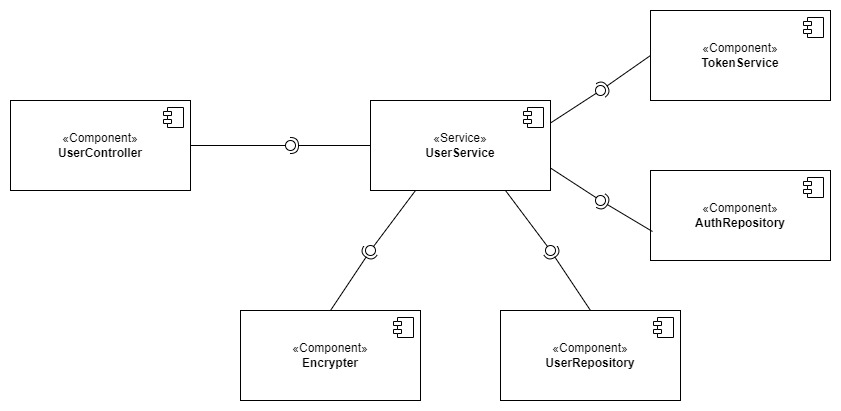
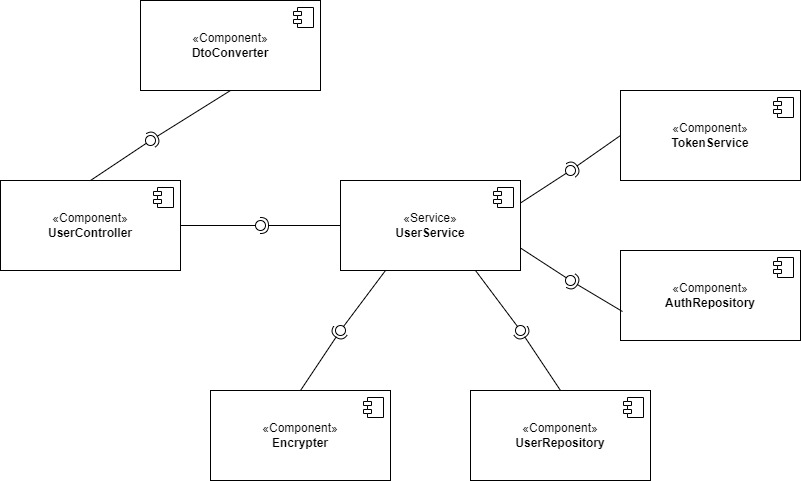
Refactor clases dto se mueven a una carpeta contracts y se crea una nueva clase que se encargue de hacer la conversión de dto

diff --git a/src/main/java/com/demo/banco/controller/UserController.java b/src/main/java/com/demo/banco/controller/UserController.java
@@ -1,26 +1,24 @@
 package com.demo.banco.controller;
 
-import com.demo.banco.controller.contracts.request.UserRequest;
-import com.demo.banco.controller.contracts.response.UserResponse;
+import com.demo.banco.contracts.request.UserRequest;
+import com.demo.banco.contracts.response.UserResponse;
 import com.demo.banco.exceptions.InvalidUserRequestException;
+import com.demo.banco.helpers.DtoConverter;
 import com.demo.banco.model.User;
 import com.demo.banco.service.UserService;
-import com.fasterxml.jackson.databind.ObjectMapper;
 import org.springframework.http.HttpStatus;
 import org.springframework.web.bind.annotation.*;
-
-import java.time.format.DateTimeFormatter;
 
 @RestController
 @RequestMapping("api/v1/users")
 public class UserController {
 
     private final UserService userService;
-    private final ObjectMapper mapper;
+    private final DtoConverter dtoConverter;
 
-    public UserController(UserService userService, ObjectMapper mapper) {
+    public UserController(UserService userService, DtoConverter dtoConverter) {
         this.userService = userService;
-        this.mapper = mapper;
+        this.dtoConverter = dtoConverter;
     }
 
     @PostMapping("sign-up")
@@ -28,26 +26,14 @@ public class UserController {
     public UserResponse registerUser(@RequestBody UserRequest request) {
         if (request.getEmail() == null || request.getPassword() == null) throw new InvalidUserRequestException();
         User user = userService.registerUser(request);
-        return convertResponse(user);
+        return dtoConverter.convertUserResponse(user);
     }
 
     @GetMapping("login")
     @ResponseStatus(HttpStatus.OK)
     public UserResponse loginUser(@RequestParam String token) {
         User user = userService.loginUser(token);
-        return convertResponse(user);
-    }
-
-    private UserResponse convertResponse(User user) {
-        UserResponse response = mapper.convertValue(user, UserResponse.class);
-        DateTimeFormatter formatter = DateTimeFormatter.ofPattern("MMM d, yyyy hh:mm:ss a");
-
-        response.setPassword(user.getAuthInfo().getPassword());
-        response.setToken(user.getAuthInfo().getToken());
-        response.setCreated(formatter.format(user.getCreated()));
-        if(user.getLastLogin() != null) response.setLastLogin(formatter.format(user.getLastLogin()));
-
-        return response;
+        return dtoConverter.convertUserResponse(user);
     }
 
 }

diff --git a/src/main/java/com/demo/banco/helpers/impl/DtoConverterImpl.java b/src/main/java/com/demo/banco/helpers/impl/DtoConverterImpl.java
@@ -1,0 +1,32 @@
+package com.demo.banco.helpers.impl;
+
+import com.demo.banco.contracts.response.UserResponse;
+import com.demo.banco.helpers.DtoConverter;
+import com.demo.banco.model.User;
+import com.fasterxml.jackson.databind.ObjectMapper;
+import org.springframework.stereotype.Component;
+
+import java.time.format.DateTimeFormatter;
+
+@Component
+public class DtoConverterImpl implements DtoConverter {
+
+    private final ObjectMapper mapper;
+
+    public DtoConverterImpl(ObjectMapper mapper) {
+        this.mapper = mapper;
+    }
+
+    @Override
+    public UserResponse convertUserResponse(User user) {
+        UserResponse response = mapper.convertValue(user, UserResponse.class);
+        DateTimeFormatter formatter = DateTimeFormatter.ofPattern("MMM d, yyyy hh:mm:ss a");
+
+        response.setPassword(user.getAuthInfo().getPassword());
+        response.setToken(user.getAuthInfo().getToken());
+        response.setCreated(formatter.format(user.getCreated()));
+        if(user.getLastLogin() != null) response.setLastLogin(formatter.format(user.getLastLogin()));
+
+        return response;
+    }
+}

diff --git a/src/test/java/com/demo/banco/controller/UserControllerTest.java b/src/test/java/com/demo/banco/controller/UserControllerTest.java
@@ -1,7 +1,7 @@
 package com.demo.banco.controller;
 
-import com.demo.banco.controller.contracts.request.UserRequest;
-import com.demo.banco.controller.contracts.response.UserResponse;
+import com.demo.banco.contracts.request.UserRequest;
+import com.demo.banco.contracts.response.UserResponse;
 import com.demo.banco.helpers.UserFactory;
 import com.fasterxml.jackson.databind.ObjectMapper;
 import org.junit.jupiter.api.Assertions;

diff --git a/src/main/java/com/demo/banco/service/impl/UserServiceImpl.java b/src/main/java/com/demo/banco/service/impl/UserServiceImpl.java
@@ -1,6 +1,6 @@
 package com.demo.banco.service.impl;
 
-import com.demo.banco.controller.contracts.request.UserRequest;
+import com.demo.banco.contracts.request.UserRequest;
 import com.demo.banco.exceptions.AuthNotFoundException;
 import com.demo.banco.exceptions.RegisterUserException;
 import com.demo.banco.exceptions.UserAlreadyExistException;

diff --git a/src/test/java/com/demo/banco/helpers/UserFactory.java b/src/test/java/com/demo/banco/helpers/UserFactory.java
@@ -1,7 +1,7 @@
 package com.demo.banco.helpers;
 
-import com.demo.banco.controller.contracts.request.PhoneRequest;
-import com.demo.banco.controller.contracts.request.UserRequest;
+import com.demo.banco.contracts.request.PhoneRequest;
+import com.demo.banco.contracts.request.UserRequest;
 
 import java.util.ArrayList;
 import java.util.List;

diff --git a/src/test/java/com/demo/banco/service/UserServiceImplTest.java b/src/test/java/com/demo/banco/service/UserServiceImplTest.java
@@ -1,6 +1,6 @@
 package com.demo.banco.service;
 
-import com.demo.banco.controller.contracts.request.UserRequest;
+import com.demo.banco.contracts.request.UserRequest;
 import com.demo.banco.exceptions.AuthNotFoundException;
 import com.demo.banco.exceptions.RegisterUserException;
 import com.demo.banco.exceptions.UserAlreadyExistException;

diff --git a/src/main/java/com/demo/banco/service/UserService.java b/src/main/java/com/demo/banco/service/UserService.java
@@ -1,6 +1,6 @@
 package com.demo.banco.service;
 
-import com.demo.banco.controller.contracts.request.UserRequest;
+import com.demo.banco.contracts.request.UserRequest;
 import com.demo.banco.model.User;
 
 public interface UserService {

diff --git a/src/main/java/com/demo/banco/helpers/DtoConverter.java b/src/main/java/com/demo/banco/helpers/DtoConverter.java
@@ -1,0 +1,9 @@
+package com.demo.banco.helpers;
+
+import com.demo.banco.contracts.response.UserResponse;
+import com.demo.banco.model.User;
+
+public interface DtoConverter {
+
+    UserResponse convertUserResponse(User user);
+}

diff --git a/src/main/java/com/demo/banco/contracts/response/PhoneResponse.java b/src/main/java/com/demo/banco/contracts/response/PhoneResponse.java
@@ -1,4 +1,4 @@
-package com.demo.banco.controller.contracts.response;
+package com.demo.banco.contracts.response;
 
 import lombok.AllArgsConstructor;
 import lombok.Getter;

diff --git a/src/main/java/com/demo/banco/contracts/request/PhoneRequest.java b/src/main/java/com/demo/banco/contracts/request/PhoneRequest.java
@@ -1,4 +1,4 @@
-package com.demo.banco.controller.contracts.request;
+package com.demo.banco.contracts.request;
 
 import lombok.AllArgsConstructor;
 import lombok.Getter;

diff --git a/src/main/java/com/demo/banco/contracts/response/UserResponse.java b/src/main/java/com/demo/banco/contracts/response/UserResponse.java
@@ -1,4 +1,4 @@
-package com.demo.banco.controller.contracts.response;
+package com.demo.banco.contracts.response;
 
 import lombok.Data;
 

diff --git a/src/main/java/com/demo/banco/contracts/request/UserRequest.java b/src/main/java/com/demo/banco/contracts/request/UserRequest.java
@@ -1,4 +1,4 @@
-package com.demo.banco.controller.contracts.request;
+package com.demo.banco.contracts.request;
 
 import lombok.*;
 
